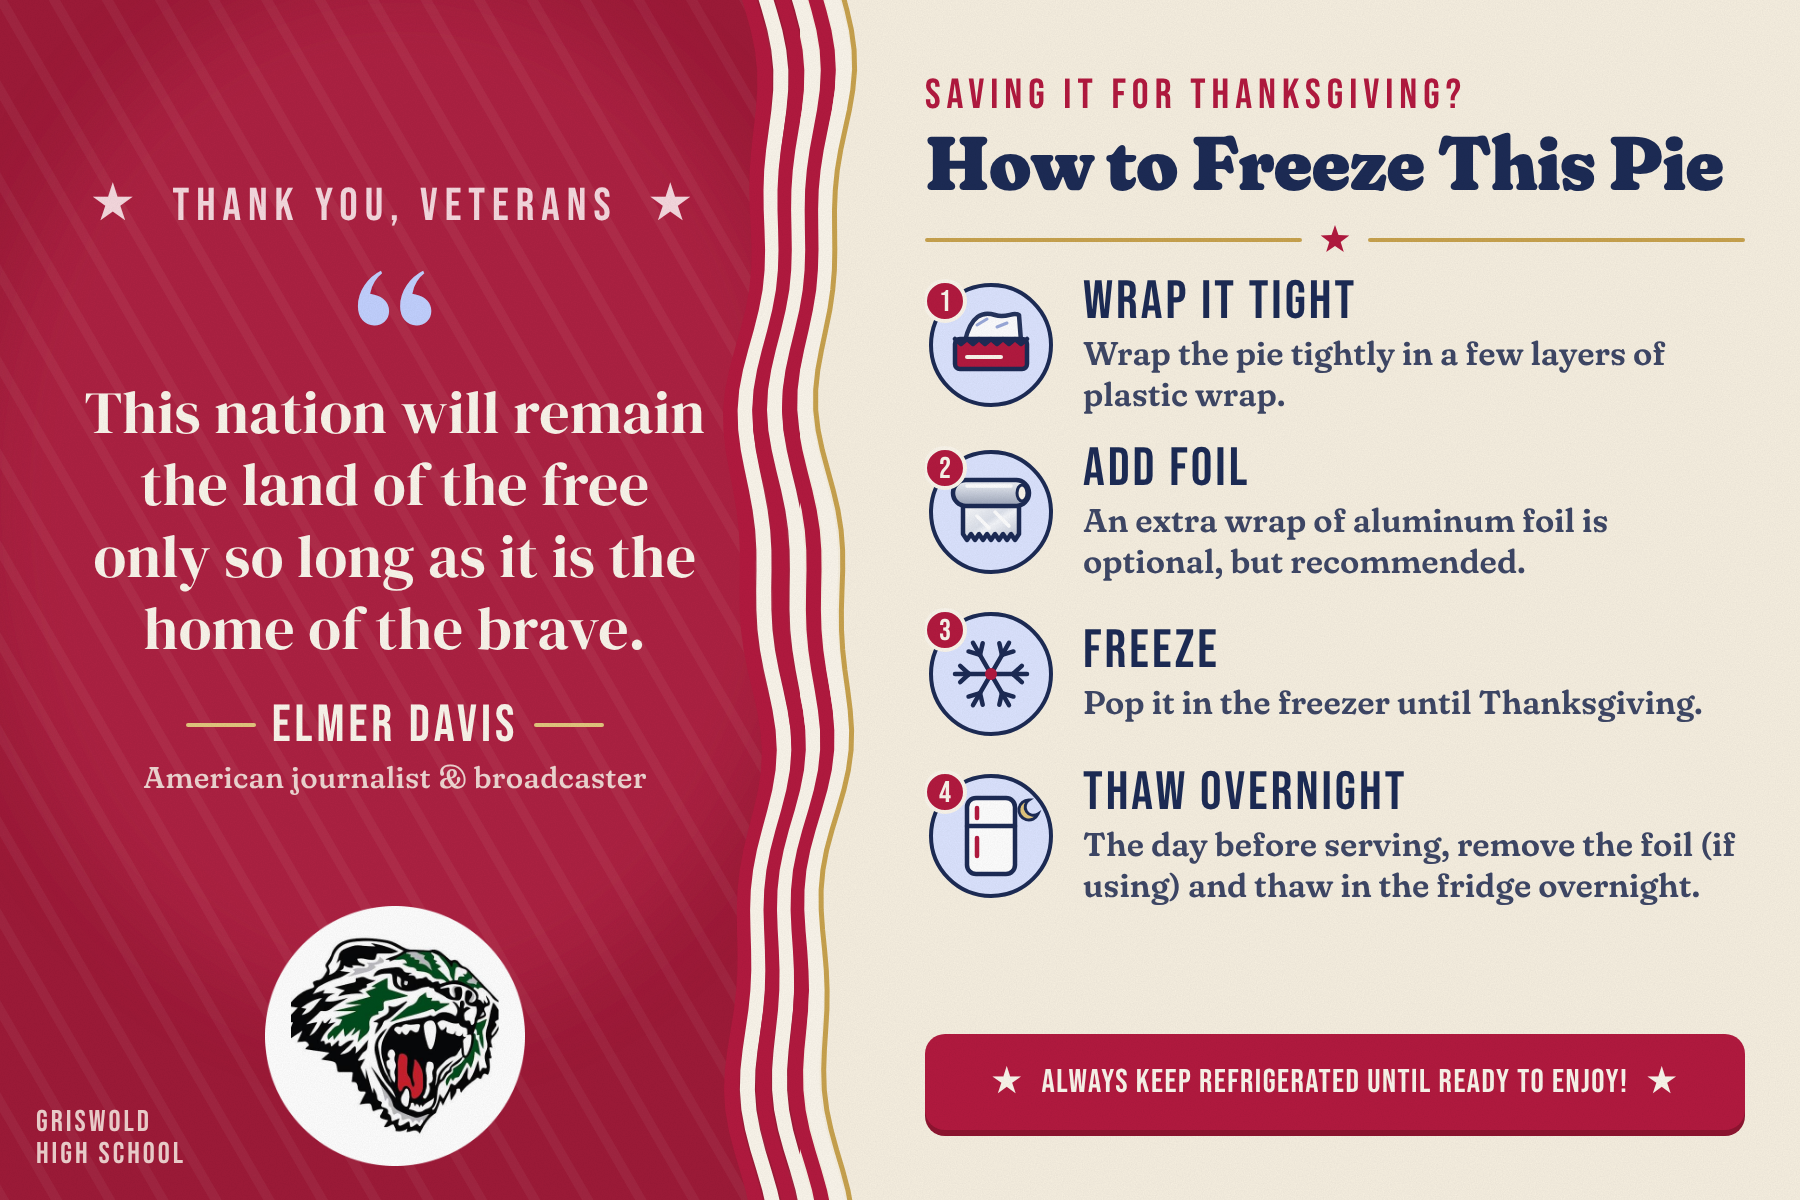
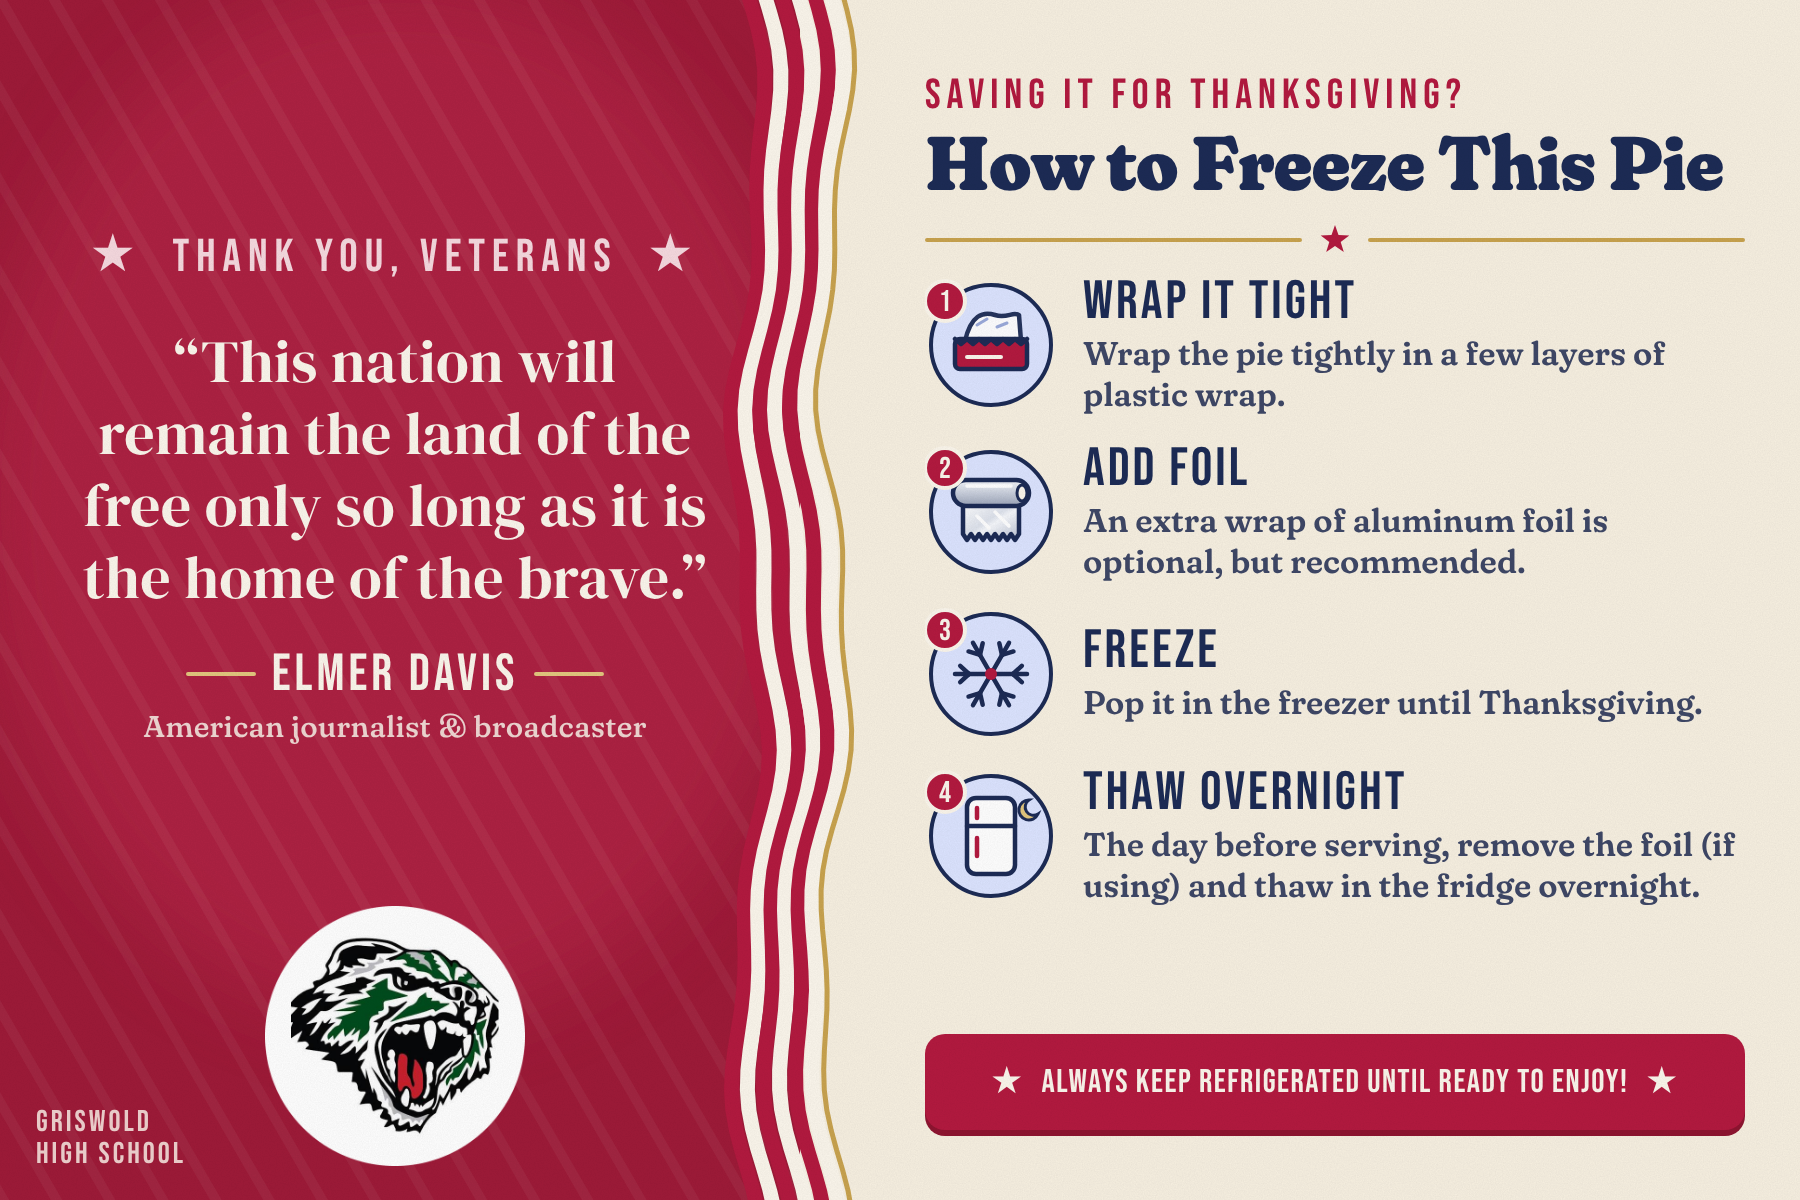
Pie labels: regular quotation marks instead of large quote mark; move flag label's eyebrow clear of red stripes
Claude-Session: https://claude.ai/code/session_01Q88H9i834FyFD65Ubj97LT

Changed region(s): [[0.0311, 0.1542, 0.4044, 0.6783]]

diff --git a/pie-labels/source/label.html b/pie-labels/source/label.html
@@ -18,7 +18,7 @@
   #leftContent { position:absolute; left:80px; width:630px; display:flex; flex-direction:column; align-items:center; text-align:center; }
   .eyebrow { font-size:46px; letter-spacing:7px; }
   .qmark { font-family:'DM Serif Display'; font-weight:400; font-size:200px; line-height:.55; height:78px; margin-top:58px; margin-bottom:6px; }
-  .quote { font-family:'DM Serif Display',serif; font-style:normal; font-weight:400; font-size:60px; line-height:1.2; letter-spacing:.3px; }
+  .quote { margin-top:40px; font-family:'DM Serif Display',serif; font-style:normal; font-weight:400; font-size:60px; line-height:1.2; letter-spacing:.3px; }
   .attr { margin-top:30px; display:flex; flex-direction:column; align-items:center; gap:2px; }
   .attr .rule { display:flex; align-items:center; gap:16px; }
   .attr .rule i { display:block; width:70px; height:4px; border-radius:2px; }
@@ -60,7 +60,6 @@
 
 <div id="left" class="abs"><div id="leftContent">
   <div class="eyebrow bebas" id="eyebrow">★ &nbsp;Thank You, Veterans&nbsp; ★</div>
-  <div class="qmark" id="qmark">&ldquo;</div>
   <div class="quote" id="quote"></div>
   <div class="attr">
     <div class="rule"><i></i><span class="name bebas" id="name"></span><i></i></div>
@@ -93,7 +92,7 @@ const DATA={
  3:{q:'Let us solemnly remember the sacrifices of all those who fought so valiantly\u2026 to preserve our heritage of freedom.',n:'Dwight D. Eisenhower',r:'Veterans Day Proclamation, 1954',theme:'peri',fs:48},
  4:{q:'A hero is someone who has given his or her life to something bigger than oneself.',n:'Joseph Campbell',r:'American writer',theme:'bunting'},
 }[V];
-document.getElementById('quote').textContent=DATA.q;
+document.getElementById('quote').textContent='\u201C'+DATA.q+'\u201D';
 if(DATA.fs) document.getElementById('quote').style.fontSize=DATA.fs+'px';
 document.getElementById('name').textContent=DATA.n;
 document.getElementById('role').textContent=DATA.r;
@@ -106,7 +105,7 @@ const T={
 }[DATA.theme];
 
 const css=(id,o)=>Object.assign(document.getElementById(id).style,o);
-css('eyebrow',{color:T.eyebrow}); css('qmark',{color:T.qmark}); css('quote',{color:T.text});
+css('eyebrow',{color:T.eyebrow}); css('quote',{color:T.text});
 css('name',{color:T.name}); css('role',{color:T.text});
 document.querySelectorAll('.attr .rule i').forEach(i=>i.style.background=T.rule);
 
@@ -138,7 +137,7 @@ if(DATA.theme==='peri'){
   el('rect',{x:-100,y:-60,width:440,height:330,fill:'#34478F',opacity:.9},fl);
   seed=9;
   for(let r=0;r<4;r++) for(let c=0;c<5;c++) star(-40+c*80+(r%2)*40,10+r*58,17,'#FBF6EC',fl,{opacity:.95});
-  contentTop=250;
+  contentTop=350;
 }
 if(DATA.theme==='bunting'){
   // fan bunting hanging from top
